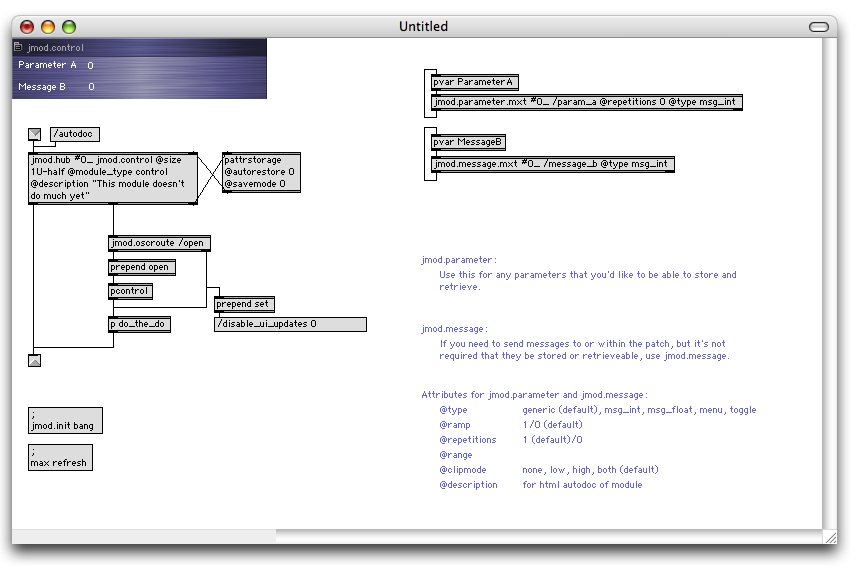
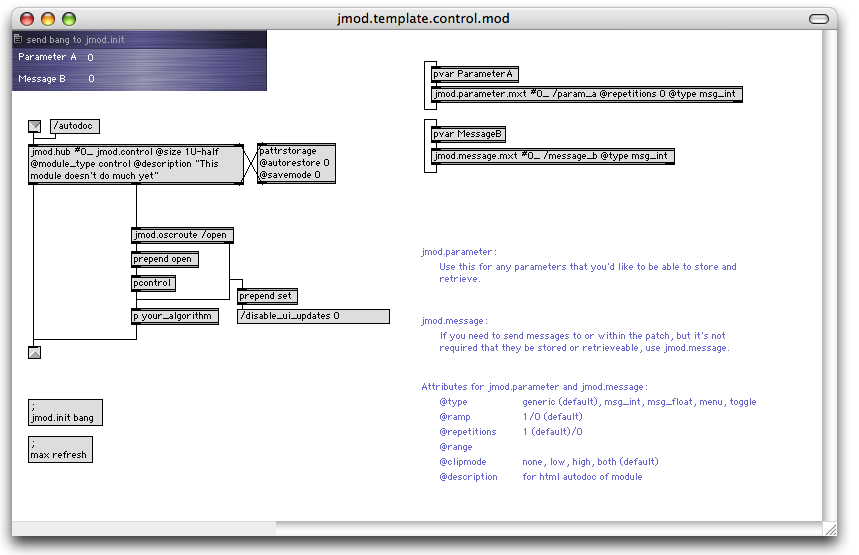
Updated the tutorial on building jmod.qmetro.mod so that it now includes description of jmod.return. I also did extract the DoTheDo subpatch as a proper algorithm.
git-svn-id: https://jamoma.svn.sourceforge.net/svnroot/jamoma/trunk@680 464221e2-0a0f-0410-983b-f8d57d210c17

diff --git a/Jamoma/documentation/html/tutorials/tutorial_02a.html b/Jamoma/documentation/html/tutorials/tutorial_02a.html
@@ -21,7 +21,11 @@
   a very simple patch:</p>
   
 <p><img src="../images/tutorial_02a_qmetro.jpg" width="137" height="128" vspace="1"></p>
-<p>If we analyse what this patch is made up of, we could say that it contains each of the following elements. </p>
+<p>If we analyse what this patch is made up of, we could say that it contains 
+  each of the following elements.</p>
+<h4>Logical Part</h4>
+<p>The logic of this patch is really simple. It is all taken care of by one external: 
+  qmetro. In larger patches it might be made up of a combination of several externals.</p>
 <h4>Graphical User Interface (GUI)</h4>
 <p>In a large patch, when we run out of screen space, the only parts of the patch 
   that we really need to be able to see are the toggle and the number box. These 
@@ -34,37 +38,70 @@
   <li>The toggle deciding wether the metro is on or off</li>
   <li>The speed of the metro</li>
 </ul>
-<p>We might want to know the state of these from a remote location in the patch. We might also want to 
-  be able to control these two parameters from a remote location in the patch.</p>
-<h4>Logical Part</h4>
-<p>The logic of this patch is really simple. It is all taken care of by one external:
-  qmetro. In larger patches it might be made up of a combination of several externals.</p>
+<p>We might want to know the state of these from a remote location in the patch. 
+  We might also want to be able to control these two parameters from a remote 
+  location in the patch.</p>
 <h4>Output</h4>
 <p>The output is a &quot;bang&quot; message sent on regular intervals from qmetro. In the patch above, a button object
   is used to display it. However, the button doesn't really have to be there - thus it doesn't 
   have to be a part of the module itself.</p>
-<p>As we start transforming the patch above into a Jamoma module,  we will be 
-  dealing with the GUI, the parameters, the logic,  and the output one at a time.</p>
+<p>As we start transforming the patch above into a Jamoma module, we will be dealing 
+  with the GUI, the parameters, the logic, and the output one at a time. We will 
+  start of with the logic part.</p>
+<h3>The logic part of the patch</h3>
+<p>In Jamoma, the logical part of a module is usually saved as a separate patch 
+  or abstraction, and we call it <em>the algorithm</em>. We will start of by building 
+  the algorithm.</p>
+<p>The algorithm for this module is not very different from the patch we started 
+  with. The only chaange is that we need to be able to send messages to the algorithm 
+  to change timing and turning it on or off. In Jamoma, you won't be passing numbers, 
+  bangs or similar on their own. They will always be <a href="http://www.opensoundcontrok">Open 
+  Sound Control (OSC)</a> messages starting with a symbol telling what parameter 
+  the value is meant for. For this reason we need some routing inside DoTheDo. 
+  Instead of the standard Max <strong>route</strong> object, we will use <strong>jmod.oscroute</strong>, 
+  as it adds a number of useful OpenSoundControl-related functionalities. All 
+  control messages are sent to the left inlet of the module, and here is what 
+  it should look like:</p>
+<p><img src="../images/tutorial_02A_algorithm.png" width="342" height="219"></p>
+<p>Once you have made this patch, save it as <strong>jmod.qmetro.alg</strong> 
+  somewhere in the search path. If you're a Jamoma developer and planning to make 
+  the new module a part of the Jamoma package, your new algorithm should be stored 
+  in the Jamoma/library/algorithm folder. If not, you should find some other dedicated 
+  place in the Max search path for your custom modules. When testing your new 
+  module. &aring;lease note that an algorithm named jmod.qmetro.mod already exist 
+  in the <span class="filepath">Jamoma/library/algorithms</span> folder. You might 
+  have to temporarily remove that.</p>
+<p>If you want to test this patch before moving on, you can do the following:</p>
+<p><img src="../images/tutorial_02A_algo_test.png" width="166" height="152"></p>
 <h3>A template for control modules</h3>
-<p>In the Jamoma folder you'll find a file named jmod.template.control.mod (in 
-  the documentation/templates folder). Make a copy of this, and rename it as <strong>jmod.qmetro.mod</strong>.</p>
+<p>Now we will start making the module. The module will embedd the algorithm, 
+  and offer parameter handling and a GUI. To make it easier to create new modules, 
+  Jamoma offers a number of templates. These can be found in the <span class="filepath">Jamoma/documentation/templates</span> 
+  folder. It is a good idea to copy the templates to the <span class="filepath">patches/templates</span> 
+  folder in the MaxMSP folder. That way you can create new modules from the <strong>File 
+  &gt; New</strong> menu in Max. Our module will be based on the module named 
+  <strong>jmod.template.control.mod</strong>. Make a copy of this, and rename 
+  it as <strong>jmod.qmetro.mod</strong>.</p>
 <p>If you're a Jamoma developer and planning to make the new module a part of 
   the Jamoma package, your new module should be stored in one of the subfolders 
-  of library/modules, depending on what kind of module it is. If not, you should 
-  find some other dedicated place in the Max search path for your custom modules.</p>
+  of <span class="filepath">Jamoma/library/modules</span>, depending on what kind 
+  of module it is. If not, you should find some other dedicated place in the Max 
+  search path for your custom modules.</p>
 <p>Once you have made yourself a copy and renamed it, open it and take a look:</p>
-<p><img src="../images/tutorial_02a_template.png" width="856" height="569"></p>
+<p><img src="../images/tutorial_02a_template.png"></p>
 <p>If your template does not look exactly like this, try clicking on the two message 
   boxes at the lower left of the window (;max refresh and ;jmod.init bang). Sometimes 
-  the screen does not display all elements properly when you first load a 
-  patch. We believe that this is an issue with bpatcher.</p>
+  the screen does not display all elements properly when you first load a patch.</p>
+<p>The first thing we will do is to embedd the algorithm we have created. This 
+  is done simply by substituting the <strong>&quot;p your_algorithm&quot;</strong> 
+  object for <strong>jmod.qmetro.alg</strong>.</p>
 <h3>The interface</h3>
-<p>We'll start by creating the interface. If you look in the upper left corner 
-  of the patch, there's a small bluish part. When the module is complete, we will 
-  be using it as a bpatcher. At that point all we will need to see is this one 
-  small region, sized 255 x 60 pixels, or &quot;1U-half&quot; in the Jamoma terminology: 
-  One unit tall (60 pixels) and half a unit wide (255 pixels). For more details 
-  on various sizes of modules, please refere to the <a href="../interface_guidelines.html">JIG</a>.</p>
+<p>Next we will create the interface. If you look in the upper left corner of 
+  the patch, there's a small bluish part. When the module is complete, we will 
+  be using it as a patcher or bpatcher. At that point all we will need to see 
+  is this one small region, sized 255 x 60 pixels, or &quot;1U-half&quot; in the 
+  Jamoma terminology: One unit tall (60 pixels) and half a unit wide (255 pixels). 
+  For more details on various sizes of modules, please refere to the <a href="../interface_guidelines.html">JIG</a>.</p>
 <p>For our interface we'll need a toggle and a number box here. We'll also rename 
   the comments so that they make sense to us:</p>
 <p><img src="../images/tutorial_02a_interface.jpg" width="262" height="88"></p>
@@ -75,16 +112,22 @@
   <li>Deselect &quot;Draw triangle&quot;</li>
   <li>Set number color to white (255, 255, 255)</li>
 </ul>
-<p>If not, you can leave it as is.</p>
+<p>If not, you can leave it as is. You could also save the comment and numberbox 
+  settings as e.g. &quot;Jamoma_white&quot; prototypes from the <strong>Objects</strong> 
+  menu in Max so that it is easier to make new number boxes and comments later 
+  on with a consistent look.</p>
+<p>&nbsp;</p>
 <h3>Parameter handling</h3>
-<p>Parameter handling will mainly be taken care of by a custom Jamoma &quot;component&quot; 
-  or abstraction named jmod.parameter. If you don't know what an abstraction is, 
-  take a look at Max tutorials 26-28. They discuss how to turn a Max patch into 
-  an object.</p>
+<p>Parameter handling will mainly be taken care of by a custom Jamoma <em>component</em> 
+  or abstraction named<strong> jmod.parameter</strong>. If you don't know what 
+  an abstraction is, take a look at Max tutorials 26-28. They discuss how to turn 
+  a Max patch into an object.</p>
 <p>First we need to get the toggle and number box to communicate with jmod.parameter. 
-  We could do so using patch cords (and you are certainly welcome to do so), but that can quickly turn the patch into 
-  a pile of spaghetti. For this tutorial, we'll use pvar. If you don't know the pvar object, 
-  you should take a look at both the help file and the  pdf documentation that comes with Max.</p>
+  We could do so using patch chords (and you are certainly welcome to do so), 
+  but that can quickly turn the patch into a pile of spaghetti. For this tutorial, 
+  we'll use <strong>pvar</strong>. If you don't know the tutorial_02a_template.png 
+  object, you should take a look at both the help file and the pdf documentation 
+  that comes with Max.</p>
 <p>We'll start off by naming the toggle &quot;MetroToggle&quot; and the number 
   box &quot;MetroTime&quot; by selecting one object at a time and choose <strong>Name</strong> 
   from the <strong>Object</strong> menu:</p>
@@ -94,15 +137,15 @@
   and &quot;MetroTime&quot; respectively. You can check that the communication 
   between the GUI objects and pvar function by connecting toggles and number boxes 
   to the inlets and outlets of the respective pvars and test:</p>
-<p>&nbsp;</p>
 <p><img src="../images/tutorial_02a_pvartest.jpg" width="482" height="169"></p>
 <p>&nbsp;</p>
 <p>Now it's time for connecting the pvar objects to jmod.parameter. This is how 
   we'll do it:</p>
 <p><img src="../images/tutorial_02a_pvarconnect1.png" width="183" height="131"></p>
-<p>Now we're ready for some magic. Try 
-  turning the toggle on and off, and change the time in the interface. If everything is working as supposed to,  any change 
-  you make  will cause the message box further down in the patch (connected to 
+<p>&nbsp;</p>
+<p>Now we're ready for some magic. Try turning the toggle on and off, and change 
+  the time in the interface. If everything is working as supposed to, any change 
+  you make will cause the message box further down in the patch (connected to 
   the 2nd outlet of jmod.hub) to reflect the parameter change. If you double click 
   the pattrstorage object, it should reflect the current state of the two parameters.</p>
 <h3>More about jmod.parameter</h3>
@@ -112,8 +155,7 @@
 <ul>
   <li><em>#0_</em><br>
     This argument is always the same, and is used for internal communication between 
-    the various Jamoma components in the module.<br>
-  </li>
+    the various Jamoma components in the module.</li>
   <li><em>symbol</em><br>
     The name of the parameter.</li>
 </ul>
@@ -132,11 +174,8 @@
 </ul>
 <p>Slash (/) has a special meaning in OSC-land, and will have to be used accordingly. 
   We'll look into this little by little.</p>
-<p>&nbsp;</p>
 <p>For our module we will name the two parameters<em> /toggle</em> and <em>/time</em>.</p>
-<p>&nbsp;</p>
 <p><strong>Attributes</strong></p>
-<p>&nbsp;</p>
 <p>For each parameter we can set a number of attribtues. Currently the following 
   attributes are implemented:</p>
 <ul>
@@ -144,25 +183,20 @@
     This is used to distinguish between different types of messages. Possible 
     types are:<br>
     generic | menu | toggle | msg_int | msg_float | msg_list | msg_symbol | jit_matrix<br>
-    Default type is generic (this means any value of any type is permitted) <br>
-  </li>
+    Default type is generic (this means any value of any type is permitted) </li>
   <li><em>ramp (1/0)</em><br>
     Determines if parameter can be ramped or not.<br>
-    Default is 0 (ramping is disabled) <br>
-  </li>
+    Default is 0 (ramping is disabled) </li>
   <li><em>repetitions (1/0)</em><br>
     Are repetitions of the same value permitted, or should they be filtered out?<br>
-    Default is 1 (repetitions are allowed)<br>
-  </li>
+    Default is 1 (repetitions are allowed)</li>
   <li><em>range (two ints or floats)</em><br>
     Suggested normal range of parameter.<br>
-    Default value is 0.0-1.0 for msg_float, 0-127 for msg_int and 0-1 for msg_toggle<br>
-  </li>
+    Default value is 0.0-1.0 for msg_float, 0-127 for msg_int and 0-1 for msg_toggle</li>
   <li><em>clipmode (symbol)</em><br>
     Define range boundary restrictions. In other words, does it limit the values to the ranges recommended with the @range attribute. Possible modes are:<br>
     none | low | high | both<br>
-    Default: none<br>
-  </li>
+    Default: none</li>
   <li><em>description (symbol)</em><br>
     This attribute can be used to provide a short text description or documentation 
     of the parameter. Jamoma has a built-in   documentation generator that will create an HTML 
@@ -171,17 +205,14 @@
 <p>The template tries to help you remember the various attributes. For our module 
   the following attributes seem sensible:</p>
 <p>jmod.parameter.mxt #0_ /toggle:</p>
-<p><br>
-  @type msg_toggle <span class="comment">- it's a toggle</span><br>
+<p>@type msg_toggle <span class="comment">- it's a toggle</span><br>
   @ramp 0 <span class="comment">- and it doesn't make sense to let a toggle ramp</span><br>
   @repetitions 0 <span class="comment">- neither are repetitions useful</span><br>
   @range 0 1<span class="comment"> - this is all the range that we need</span><br>
   @clipmode both <span class="comment">- so anything outside the range is clipped</span><br>
   @description &quot;Toggle qmetro on/off&quot;</p>
-<p>&nbsp;</p>
 <p>jmod.parameter.mxt #0_ /time:</p>
-<p><br>
-  @type msg_int<br>
+<p>@type msg_int<br>
   @ramp 1 <span class="comment">- can be useful for accelerando and ritardando</span><br>
   @repetitions 0 <span class="comment">- repetitions won't make any differences 
   to the output, so we might just as well filter them out</span><br>
@@ -190,7 +221,6 @@
   @clipmode low <span class="comment">- but we don't want to prevent it from being 
   a higher value </span><br>
   @description &quot;Metro interval (ms)&quot;</p>
-<p>&nbsp;</p>
 <p>Now this part of the patch looks like this:</p>
 <p><img src="../images/tutorial_02a_parameters.png" width="368" height="141"></p>
 <p>Before we move on to creating the logic, it's worth noting that jmod.parameter 
@@ -198,57 +228,58 @@
   it can be used for ramping to new values, clipping the range and filtering out 
   repetitions.</p>
 <p>On a sidenote you might have noted that we always load the component as &quot;jmod.parameter.mxt&quot;. 
-  You can load it as &quot;jmod.parameter&quot; and it would work fine as well. We've found that adding 
-  the file extensions for abstractions in Max tends to substantially speed up the amount of time  it takes to load patches (as of MaxMSP 4.5.4).</p>
-<h3>The logic part of the patch</h3>
-<p>The logic part of the patch, the stuff that's actual doing the work, will be tucked 
-  away in a subpatch. In the template the subpatch is named &quot;DoTheDo&quot;, 
-  but you might want to change that for something more sensible.</p>
-<p>You might have noticed that the 2nd outlet of jmod.hub sends out messages of 
-  the kind &quot;/time 40&quot; or &quot;/toggle 1&quot; as you change values 
-  in the GUI. In Jamoma, you won't be passing numbers, bangs or similar on their 
-  own. They will always be OpenSoundControl messages starting with a symbol telling 
-  what parameter the value is meant for. For this reason we need some routing 
-  inside DoTheDo. Instead of the standard Max <strong>route</strong> object, we 
-  will use <strong>jmod.oscroute</strong>, as it adds a number of useful OpenSoundControl-related 
-  functionalities.</p>
-<p><img src="../images/tutorial_02A_dothedo.png" width="237" height="316"></p>
-<p>For the same reason we will not be passing the bangs straight on, but prepend 
-  a symbol to tag the data with a meaningful name. In this case we have chosen 
-  the symbol &quot;/trigger&quot;. Again note that the symbol starts with a slash.</p>
+  You can load it as &quot;jmod.parameter&quot; and it would work fine as well. 
+  We've found that adding the file extensions for abstractions in Max tends to 
+  substantially speed up the amount of time it takes to load patches (as of MaxMSP 
+  4.5.4).</p>
+<h3>Returned message</h3>
+<p>We want our module to return a message everytime the qmetro fire. In order 
+  to be OpenSoundControl compatible we do not want to return a &quot;bang&quot;. 
+  Instead we will return the message &quot;/trigger bang&quot;. In order to do 
+  so we will use the component <strong>jmod.return.mxt</strong>. jmod.return takes 
+  more or less the same arguments and attributes as jmod.parameter, and we will 
+  use the following settings:</p>
+<p><img src="../images/tutorial_02A_return.png" width="225" height="70"></p>
+<p>Why do we do it this way instead of simply prepending /trigger? The answer 
+  is that jmod.return help us in the documentation of the module, as well as various 
+  ways f communication and mapping between modules that will be documented in 
+  other tutorials.</p>
 <h3>Winding up the module</h3>
 <p>There's a few more tasks to carry out before we're done.</p>
 <p>First we sant to change the displayed name of the module from jmod.control 
   to jmod.qmetro. This we do by changing the 2nd argument of jmod.hub to &quot;jmod.qmetro&quot;. 
   In addition we'll change the description attribute for jmod.hub.</p>
-<p>If you want you can connect the outlet of DoTheDo to a button to check that 
-  the patch is working.</p>
-<p><img src="../images/tutorial_02a_winding_up.png" width="346" height="486"></p>
+<p>If you want you can connect the left outlet of <strong>jmod.hub.mxt</strong> 
+  and the algorithm to a button to check that the patch is working. This is what 
+  it ought to look like:</p>
+<p><img src="../images/tutorial_02a_winding_up.png"></p>
 <p>Next we want to provide a default preset for the module. First click the &quot;;jmod.init 
   bang&quot; message box so that the module is properly initialised. Then set 
   time to 40 and the toggle to off, and select &quot;Save Settings...&quot; from 
   the small pop-up menu in the left upper corner of the module GUI. Save the preset 
   as &quot;jmod.qmetro.xml&quot; somewhere in the Max search path. Presets for 
-  standard Jamoma modules can be found in the Jamoma library/presets folder.</p>
+  standard Jamoma modules can be found in the <span class="filepath">Jamoma library/presets</span> 
+  folder.</p>
 <p>If you want to, you can also auto-generate HTML documentation for the patch. 
   Simply click the /autodoc message box above jmod.hub. Save as &quot;jmod.qmetro.html&quot; 
   somewhere in Max's searchpath. The documentation should look something like 
   <a href="../modules/jmod.qmetro.html">this</a>.</p>
 <h3>Testing the module</h3>
-<p>Before you start testing, make sure to remove the pre-existing jmod.qmetro.mod that we created from the library/modules/control 
-  folder. That way you can be sure that you will be testing your module and not the 
-  one that comes as part of the standard Jamoma package.</p>
+<p>Before you start testing, make sure to remove the pre-existing jmod.qmetro.mod 
+  that we created from the<span class="filepath"> library/modules/control</span> 
+  folder. That way you can be sure that you will be testing your module and not 
+  the one that comes as part of the standard Jamoma package.</p>
 <p>Save and close your module patch, and create a new patch. Create a bpatcher 
-  object, and in the inspecter, type &quot;jmod.qmetro.mod&quot;. Resize the bpatcher 
-  to 255x60 pixels. Add a few more objects as shown below:</p>
+  object, and in the inspecter, type &quot;jmod.qmetro.mod&quot;. Add a few more 
+  objects as shown below:</p>
 <p><img src="../images/tutorial_02a_testing.png" width="406" height="339"></p>
 <p>Click &quot;;jmod.init bang&quot; to initialise, and if the display is not looking
   as it is supposed to, refresh the screen by clicking &quot;;max refresh&quot;.</p>
 <p>If you interact with the toggle and time number box in the module, you'll see 
   that updated values are reported from the outlet of the module. You can also 
-  update the parameters by sending messages from outside of the module. If you turn on audio 
-  in the patch, you'll be able to listen to the result as time ramps from one 
-  value to another.</p>
+  update the parameters by sending messages from outside of the module. If you 
+  turn on audio in the patch, you'll be able to listen to the result as time ramps 
+  from one value to another.</p>
 <h3>Conclusion</h3>
 <p>A Jamoma module can be thought of as being made up of three parts:</p>
 <ul>
@@ -258,17 +289,32 @@
 </ul>
 <p>A number of Jamoma components collaborate to make it all work together:</p>
 <ul>
-  <li>jmod.parameter is dealing with one parameter</li>
-  <li>If you need to communicate messages to the module that you 
-    do not want to treat as parameters, you can use jmod.message.</li>
-  <li>jmod.hub is the brain of the Jamoma system, a hub communicating back and 
-    forth with all other jamoma components in the module.</li>
-  <li>jmod.gui is providing the backdrop for the GUI part. It also embeds a number 
-    of common features that you want in all or some of the modules. This will 
-    be detailed further in the tutorials on how to build audio and video modules.</li>
+  <li><strong>jmod.parameter</strong> is dealing with one parameter.</li>
+  <li>If you need to communicate messages to the module that you do not want to 
+    treat as parameters, you can use <strong>jmod.message</strong>.</li>
+  <li><strong>jmod.hub</strong> is the brain of the Jamoma system, a hub communicating 
+    back and forth with all other jamoma components in the module.</li>
+  <li><strong>jmod.gui</strong> is providing the backdrop for the GUI part. It 
+    also embeds a number of common features that you want in all or some of the 
+    modules. This will be detailed further in the tutorials on how to build audio 
+    and video modules.</li>
   <li>The module has a default preset and can be auto-documented as HTML.</li>
 </ul>
-<p>&nbsp;</p>
+<p>Creating a new module involves the following steps:</p>
+<ul>
+  <li>Create the algorithm.</li>
+  <li>Create a new module using the appropriate template.</li>
+  <li>Design the user interface. If you need the interface to be a different size, 
+    you can change the attributes of <strong>jmod.hub</strong> and alter the size 
+    of <strong>jmod.gui</strong> accordingly.</li>
+  <li>Create <strong>jmod.parameter</strong> and <strong>jmod.message</strong> 
+    objects as required, and set arguments and attriubes.</li>
+  <li>Use <strong>pvar</strong> to connect <strong>jmod.parameter</strong> and 
+    <strong>jmod.message</strong> to the interface.</li>
+  <li>If the module is to return control messages, you have to use <strong>jmod.return</strong>.</li>
+  <li>When the module is finished, create a default preset file and html documentation 
+    using the /autodoc message.</li>
+</ul>
 <p>&nbsp;</p>
 </body>
 </html>

diff --git a/Jamoma/documentation/html/styles/jamoma.css b/Jamoma/documentation/html/styles/jamoma.css
@@ -51,6 +51,7 @@ p {
 	font-size: 12px;
 	font-weight:100;
 	margin: 5px 2%;
+	padding-bottom: 1em;
 }
 
 ul{
@@ -63,6 +64,7 @@ li {
 	font-weight:100;
 	margin-top: 0;
 	margin-left: 10px;
+	padding: 0em 0em 0.3em;
 }
 
 img {
@@ -176,4 +178,7 @@ ul {
 caption {
 	font-size: 11px;
 	font-style: italic;
+}
+.filepath {
+	font-family: "Courier New", Courier, mono;
 }
